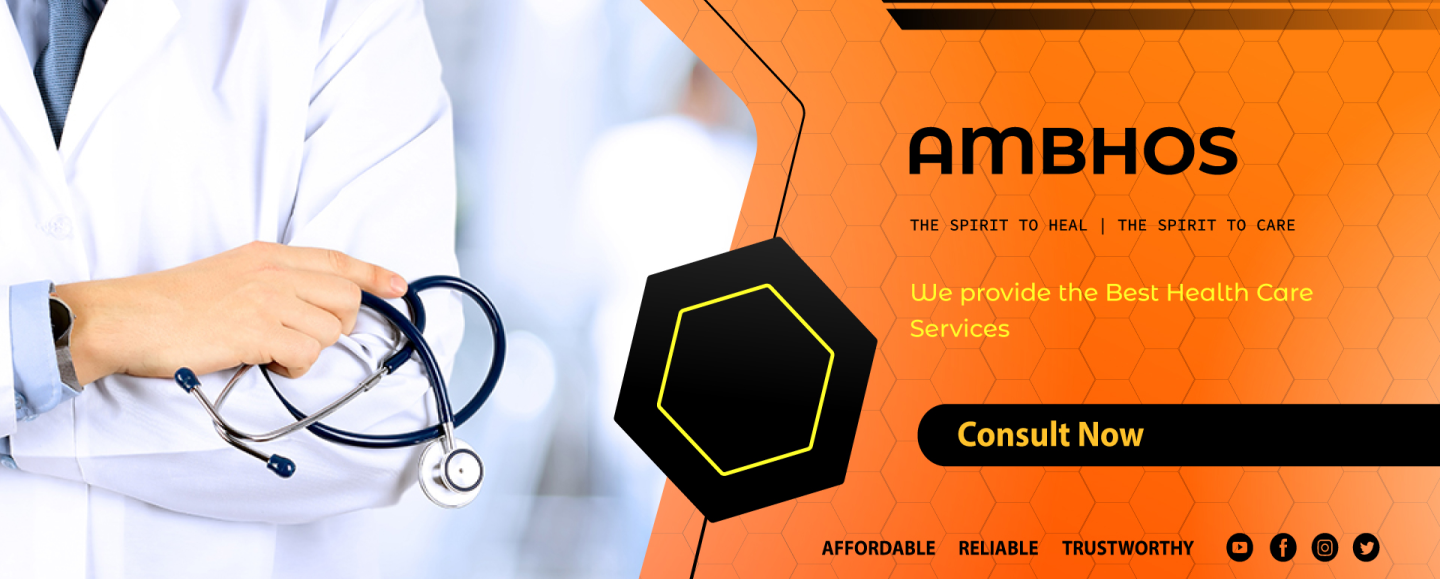
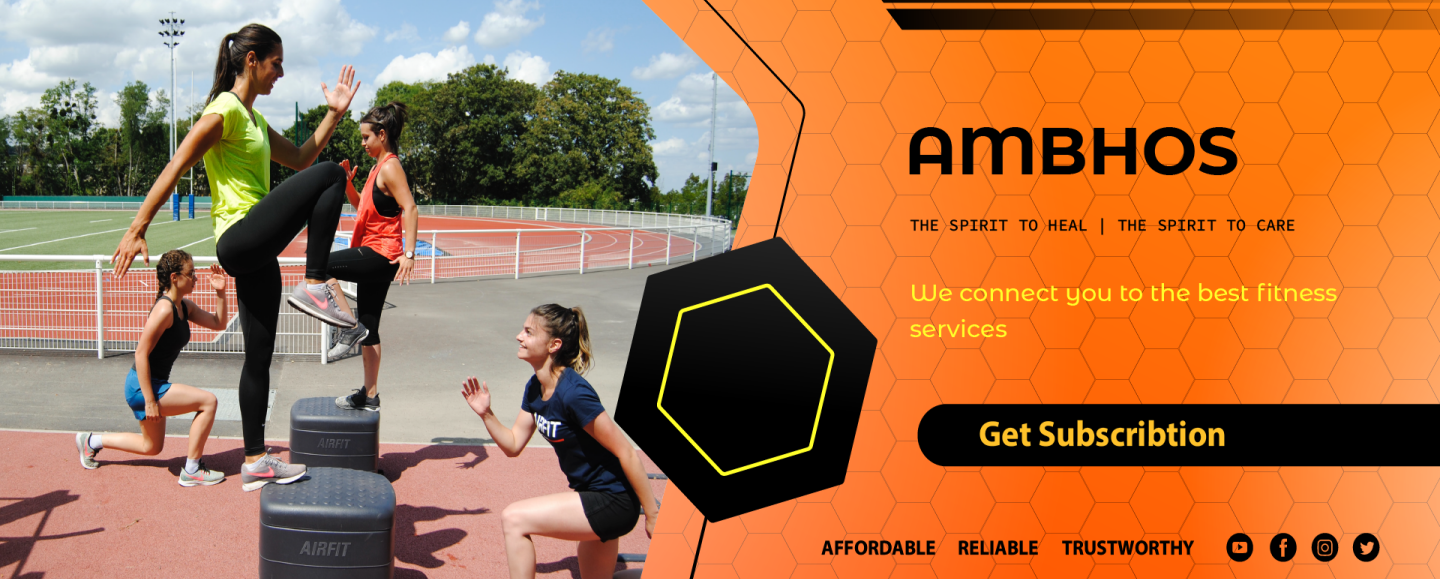
fully changed for first launch

diff --git a/src/Components/HomePage/Components/Upcoming/Upcoming.js b/src/Components/HomePage/Components/Upcoming/Upcoming.js
@@ -1,6 +1,7 @@
 import React from 'react'
 import Styles from './Upcoming.module.css';
 import Layout from './Layout/Layout';
+import {UpcomingApi} from '../../../../Common/UpcomingApi';
 
 function Upcoming() {
     return (
@@ -8,40 +9,16 @@ function Upcoming() {
             <p className={Styles.para}>Check for</p>
             <h1 className={Styles.heading}>UpComing</h1>
 
-            <Layout
-             imagetag={`/UpComing.jpg`}
-             title={`Title`}
-             para={`The oldest classical Greek and Latin writing had little or no space between words and could be written in boustrophedon (alternating directions). Over time, text direction (left to right) became standardized, and word dividers and terminal punctuation became common. The first way to divide sentences into groups was the original paragraphs, similar to an underscore at the beginning of the new group.[2] The Greek parágraphos evolved into the pilcrow (¶), which in English manuscripts in the Middle Ages can be seen inserted inline between sentences. The hedera leaf (e.g. ☙) has also been used in the same way.`}
-             description={`Topic Brief Zumba dance is a burn calories and build endurance .  malgamated our proficiency in a simple, elegant and totally integrated. amalgamated our proficiency in a simple, elegant and totally integrated... see more`}
-             />
+            {UpcomingApi.map(ele=>(
+                <Layout
+                imagetag={ele.image}
+                title={ele.event}
+                para={ele.content}
+                description={ele.title}
+                link={ele.link}
+                />
+            ))}
 
-            <Layout
-             imagetag={`/UpComing.jpg`}
-             title={`Title`}
-             para={`The oldest classical Greek and Latin writing had little or no space between words and could be written in boustrophedon (alternating directions). Over time, text direction (left to right) became standardized, and word dividers and terminal punctuation became common. The first way to divide sentences into groups was the original paragraphs, similar to an underscore at the beginning of the new group.[2] The Greek parágraphos evolved into the pilcrow (¶), which in English manuscripts in the Middle Ages can be seen inserted inline between sentences. The hedera leaf (e.g. ☙) has also been used in the same way.`}
-             description={`Topic Brief Zumba dance is a burn calories and build endurance .  malgamated our proficiency in a simple, elegant and totally integrated. amalgamated our proficiency in a simple, elegant and totally integrated... see more`}
-             />
-
-            <Layout
-             imagetag={`/UpComing.jpg`}
-             title={`Title`}
-             para={`The oldest classical Greek and Latin writing had little or no space between words and could be written in boustrophedon (alternating directions). Over time, text direction (left to right) became standardized, and word dividers and terminal punctuation became common. The first way to divide sentences into groups was the original paragraphs, similar to an underscore at the beginning of the new group.[2] The Greek parágraphos evolved into the pilcrow (¶), which in English manuscripts in the Middle Ages can be seen inserted inline between sentences. The hedera leaf (e.g. ☙) has also been used in the same way.`}
-             description={`Topic Brief Zumba dance is a burn calories and build endurance .  malgamated our proficiency in a simple, elegant and totally integrated. amalgamated our proficiency in a simple, elegant and totally integrated... see more`}
-             />
-
-            <Layout
-             imagetag={`/UpComing.jpg`}
-             title={`Title`}
-             para={`The oldest classical Greek and Latin writing had little or no space between words and could be written in boustrophedon (alternating directions). Over time, text direction (left to right) became standardized, and word dividers and terminal punctuation became common. The first way to divide sentences into groups was the original paragraphs, similar to an underscore at the beginning of the new group.[2] The Greek parágraphos evolved into the pilcrow (¶), which in English manuscripts in the Middle Ages can be seen inserted inline between sentences. The hedera leaf (e.g. ☙) has also been used in the same way.`}
-             description={`Topic Brief Zumba dance is a burn calories and build endurance .  malgamated our proficiency in a simple, elegant and totally integrated. amalgamated our proficiency in a simple, elegant and totally integrated... see more`}
-             />
-
-            <Layout
-             imagetag={`/UpComing.jpg`}
-             title={`Title`}
-             para={`The oldest classical Greek and Latin writing had little or no space between words and could be written in boustrophedon (alternating directions). Over time, text direction (left to right) became standardized, and word dividers and terminal punctuation became common. The first way to divide sentences into groups was the original paragraphs, similar to an underscore at the beginning of the new group.[2] The Greek parágraphos evolved into the pilcrow (¶), which in English manuscripts in the Middle Ages can be seen inserted inline between sentences. The hedera leaf (e.g. ☙) has also been used in the same way.`}
-             description={`Topic Brief Zumba dance is a burn calories and build endurance .  malgamated our proficiency in a simple, elegant and totally integrated. amalgamated our proficiency in a simple, elegant and totally integrated... see more`}
-             />
 
         </div>
     )

diff --git a/src/Components/ServiceProvider/ServiceProvider.js b/src/Components/ServiceProvider/ServiceProvider.js
@@ -82,9 +82,9 @@ function ServiceProvider() {
                         <div className="q">
                             <h3 className="question">SELECT YOUR CATEGORY</h3>
                             <div className="items">
-                                <div className="itemS" onClick={() => setCat("fitness")}><img src="/gymnew.png" className="image" /> <h4>FITNESS</h4></div>
-                                <div className="itemS" onClick={() => setCat("sports")}><img src="/gymnew.png" className="image" /> <h4>SPORTS</h4></div>
-                                <div className="itemS" onClick={() => setCat("care")}><img src="/gymnew.png" className="image" /> <h4>CARE</h4></div>
+                                <div className="itemS" onClick={() => setCat("fitness")}><img src="/fitnessicon.png" className="image" /> <h4>FITNESS</h4></div>
+                                <div className="itemS" onClick={() => setCat("sports")}><img src="/sportsicon.png" className="image" /> <h4>SPORTS</h4></div>
+                                <div className="itemS" onClick={() => setCat("care")}><img src="/healthicon.png" className="image" /> <h4>CARE</h4></div>
                             </div>
                         </div>
                     ),
@@ -95,8 +95,8 @@ function ServiceProvider() {
                                 <div className="q">
                                     <h3 className="question">SELECT YOUR CATEGORY</h3>
                                     <div className="items">
-                                        <div className="itemS" onClick={() => setCatTwo("academy")}><img src="/gymnew.png" className="image" /> <h4>ACADEMY</h4></div>
-                                        <div className="itemS" onClick={() => setCatTwo("trainer")}><img src="/gymnew.png" className="image" /> <h4>PERSONAL TRAINER</h4></div>
+                                        <div className="itemS" onClick={() => setCatTwo("academy")}><img src="/academyicon.png" className="image" /> <h4>ACADEMY</h4></div>
+                                        <div className="itemS" onClick={() => setCatTwo("trainer")}><img src="/trainericon.png" className="image" /> <h4>PERSONAL TRAINER</h4></div>
                                     </div>
                                 </div>
                             ),
@@ -104,9 +104,9 @@ function ServiceProvider() {
                                 <div className="q">
                                     <h3 className="question">SELECT YOUR CATEGORY</h3>
                                     <div className="items">
-                                        <div className="itemS" onClick={() => setCatTwo("academy")}><img src="/gymnew.png" className="image" /> <h4>ACADEMY</h4></div>
-                                        <div className="itemS" onClick={() => setCatTwo("trainer")}><img src="/gymnew.png" className="image" /> <h4>TRAINER</h4></div>
-                                        <div className="itemS" onClick={() => setCatTwo("mentor")}><img src="/gymnew.png" className="image" /> <h4>MENTOR</h4></div>
+                                        <div className="itemS" onClick={() => setCatTwo("academy")}><img src="/academyicon.png" className="image" /> <h4>ACADEMY</h4></div>
+                                        <div className="itemS" onClick={() => setCatTwo("trainer")}><img src="/trainericon.png" className="image" /> <h4>TRAINER</h4></div>
+                                        <div className="itemS" onClick={() => setCatTwo("mentor")}><img src="/mentoricon.png" className="image" /> <h4>MENTOR</h4></div>
                                     </div>
                                 </div>
                             ),
@@ -114,8 +114,8 @@ function ServiceProvider() {
                                 <div className="q">
                                     <h3 className="question">SELECT YOUR CATEGORY</h3>
                                     <div className="items">
-                                        <div className="itemS" onClick={() => setCatTwo("doctor")}><img src="/gymnew.png" className="image" /> <h4>DOCTOR</h4></div>
-                                        <div className="itemS" onClick={() => setCatTwo("hospital")}><img src="/gymnew.png" className="image" /> <h4>HOSPITAL</h4></div>
+                                        <div className="itemS" onClick={() => setCatTwo("doctor")}><img src="/healthicon.png" className="image" /> <h4>DOCTOR</h4></div>
+                                        <div className="itemS" onClick={() => setCatTwo("hospital")}><img src="/healthicon.png" className="image" /> <h4>HOSPITAL</h4></div>
                                     </div>
                                 </div>
                             )

diff --git a/src/Components/HomePage/Components/Testimonials/Testimonials.js b/src/Components/HomePage/Components/Testimonials/Testimonials.js
@@ -4,6 +4,7 @@ import Design from './Design/Design';
 
 import Carousel from "react-multi-carousel";
 import "react-multi-carousel/lib/styles.css";
+import {TestimonialApi} from '../../../../Common/TestimonialApi.js';
 
 const responsive = {
     superLargeDesktop: {
@@ -34,37 +35,14 @@ function Testimonials() {
             <div className={Styles.container}>
 
             <Carousel responsive={responsive}>
-            <div className={Styles.actualdiv}>
-                <Design imagetag={`/person.jpg`} paragraph={`We at Sprinteriors wanted our website to be futuristic, easy to understand, user 
-                friendly and service oriented giving our customers all the handy requisites in designing their dream project online just the 
-                way they visualized it. Thinkbar has beautifully malgamated our proficiency in a simple, elegant and totally integrated. 
-                amalgamated our proficiency in a simple, elegant and totally integrated.`}
-                   name={`Ayush Gour`} designation={`Co-founder of Ambhos.pvt.ltd`} />
-                </div>
+            
+                {TestimonialApi.map(ele=>(
+                  <div className={Styles.actualdiv}>
+                  <Design imagetag={ele.image} paragraph={ele.description}
+                     name={ele.name} designation={ele.designation} />
+                  </div>
+                ))}
 
-                <div className={Styles.actualdiv}>
-                <Design imagetag={`/person.jpg`} paragraph={`We at Sprinteriors wanted our website to be futuristic, easy to understand, user 
-                friendly and service oriented giving our customers all the handy requisites in designing their dream project online just the 
-                way they visualized it. Thinkbar has beautifully malgamated our proficiency in a simple, elegant and totally integrated. 
-                amalgamated our proficiency in a simple, elegant and totally integrated.`}
-                   name={`Ayush Gour`} designation={`Co-founder of Ambhos.pvt.ltd`} />
-                </div>
-
-                <div className={Styles.actualdiv}>
-                <Design imagetag={`/person.jpg`} paragraph={`We at Sprinteriors wanted our website to be futuristic, easy to understand, user 
-                friendly and service oriented giving our customers all the handy requisites in designing their dream project online just the 
-                way they visualized it. Thinkbar has beautifully malgamated our proficiency in a simple, elegant and totally integrated. 
-                amalgamated our proficiency in a simple, elegant and totally integrated.`}
-                   name={`Ayush Gour`} designation={`Co-founder of Ambhos.pvt.ltd`} />
-                </div>
-
-                <div className={Styles.actualdiv}>
-                <Design imagetag={`/person.jpg`} paragraph={`We at Sprinteriors wanted our website to be futuristic, easy to understand, user 
-                friendly and service oriented giving our customers all the handy requisites in designing their dream project online just the 
-                way they visualized it. Thinkbar has beautifully malgamated our proficiency in a simple, elegant and totally integrated. 
-                amalgamated our proficiency in a simple, elegant and totally integrated.`}
-                   name={`Ayush Gour`} designation={`Co-founder of Ambhos.pvt.ltd`} />
-                </div>
             </Carousel>
             </div>
             

diff --git a/src/Components/HomePage/Components/Services/Services.js b/src/Components/HomePage/Components/Services/Services.js
@@ -16,24 +16,15 @@ function Services() {
             </div>
 
             <div className={Styles.design}>
-                <DesignServices Imagetag="/form1.jpg" title={`GYM`} OnClickLink={`./gym`} />
-                <DesignServices Imagetag="/form1.jpg" title={`GYM`} OnClickLink={`./gym`} />
-                <DesignServices Imagetag="/form1.jpg" title={`GYM`} OnClickLink={`./gym`} />
-                <DesignServices Imagetag="/form1.jpg" title={`GYM`} OnClickLink={`./gym`} />
-                <DesignServices Imagetag="/form1.jpg" title={`GYM`} OnClickLink={`./gym`} />
-                <DesignServices Imagetag="/form1.jpg" title={`GYM`} OnClickLink={`./gym`} />
-                <DesignServices Imagetag="/form1.jpg" title={`GYM`} OnClickLink={`./gym`} />
-                <DesignServices Imagetag="/form1.jpg" title={`GYM`} OnClickLink={`./gym`} />
-                <DesignServices Imagetag="/form1.jpg" title={`GYM`} OnClickLink={`./gym`} />
-                <DesignServices Imagetag="/form1.jpg" title={`GYM`} OnClickLink={`./gym`} />
-                <DesignServices Imagetag="/form1.jpg" title={`GYM`} OnClickLink={`./gym`} />
-                <DesignServices Imagetag="/form1.jpg" title={`GYM`} OnClickLink={`./gym`} />
-                <DesignServices Imagetag="/form1.jpg" title={`GYM`} OnClickLink={`./gym`} />
-                <DesignServices Imagetag="/form1.jpg" title={`GYM`} OnClickLink={`./gym`} />
-                <DesignServices Imagetag="/form1.jpg" title={`GYM`} OnClickLink={`./gym`} />
-                <DesignServices Imagetag="/form1.jpg" title={`GYM`} OnClickLink={`./gym`} />
-                <DesignServices Imagetag="/form1.jpg" title={`GYM`} OnClickLink={`./gym`} />
-                <DesignServices Imagetag="/form1.jpg" title={`GYM`} OnClickLink={`./gym`} />
+                <DesignServices Imagetag="/images/gymlogo.jpg" title={`GYM`} OnClickLink={``} />
+                <DesignServices Imagetag="/images/yogalogo.jpg" title={`Yoga & Meditation`} OnClickLink={``} />
+                <DesignServices Imagetag="/images/trekkinglogo.jpg" title={`Trekking`} OnClickLink={``} />
+                <DesignServices Imagetag="/images/dancelogo.jpg" title={`Dance`} OnClickLink={``} />
+                <DesignServices Imagetag="/images/commandologo.png" title={`Commando Tranning`} OnClickLink={``} />
+                <DesignServices Imagetag="/images/swimminglogo.png" title={`Swimming`} OnClickLink={``} />
+                <DesignServices Imagetag="/images/martialartslogo.jpg" title={`Martial Arts`} OnClickLink={``} />
+                <DesignServices Imagetag="/images/olympicslogo.png" title={`Olympic Sports`} OnClickLink={`/sportsacademy`} />
+                
             </div>
             <div className={Styles.arrow}>
                       <KeyboardArrowLeftIcon />

diff --git a/src/Components/HomePage/Components/Popup/Popup.js b/src/Components/HomePage/Components/Popup/Popup.js
@@ -44,23 +44,23 @@ function Popup({category}) {
                 {
                     "fitness" :(
                         <>
-                        <div className="itemS" onClick={gotoFitnessAcademy}><img src="/gymnew.png" className="image"/> <h4>ACADEMY</h4></div>
-                        <div className="itemS" onClick={gotoFitnessTrainer}><img src="/gymnew.png" className="image" /> <h4>PERSONAL TRAINER</h4></div>
+                        <div className="itemS" onClick={gotoFitnessAcademy}><img src="/academyicon.png" className="image"/> <h4>ACADEMY</h4></div>
+                        <div className="itemS" onClick={gotoFitnessTrainer}><img src="/trainericon.png" className="image" /> <h4>PERSONAL TRAINER</h4></div>
                         </>
                      ),
 
                      "care" :(
                         <>
-                        <div className="itemS" onclick={gotoConsultDoctor}><img src="/gymnew.png" className="image" /> <h4>CONSULT DOCTORS</h4></div>
-                        <div className="itemS" onclick={gotoAppointmentBooking}><img src="/gymnew.png" className="image" /> <h4>BOOK APPOINTMENT WITH HOSPITAL</h4></div>
+                        <div className="itemS" onclick={gotoConsultDoctor}><img src="/healthicon.png" className="image" /> <h4>CONSULT DOCTORS</h4></div>
+                        <div className="itemS" onclick={gotoAppointmentBooking}><img src="/healthicon.png" className="image" /> <h4>BOOK APPOINTMENT WITH HOSPITAL</h4></div>
                         </>
                      ),
 
                      "sports" :(
                         <>
-                        <div className="itemS" onClick={gotoSportsAcademy}><img src="/gymnew.png" className="image" /> <h4>ACADEMY</h4></div>
-                        <div className="itemS" onClick={gotoCoaches}><img src="/gymnew.png" className="image" /> <h4>PERSONAL TRAINER</h4></div>
-                        <div className="itemS" onClick={gotoMentorshipProgram}><img src="/gymnew.png" className="image" /> <h4>MENTORSHIP PROGRAM</h4></div>
+                        <div className="itemS" onClick={gotoSportsAcademy}><img src="/academyicon.png" className="image" /> <h4>ACADEMY</h4></div>
+                        <div className="itemS" onClick={gotoCoaches}><img src="/trainericon.png" className="image" /> <h4>PERSONAL TRAINER</h4></div>
+                        <div className="itemS" onClick={gotoMentorshipProgram}><img src="/mentoricon.png" className="image" /> <h4>MENTORSHIP PROGRAM</h4></div>
                         </>
                      )
                 }[category]

diff --git a/src/Components/HomePage/Components/Care/LayoutCare.js b/src/Components/HomePage/Components/Care/LayoutCare.js
@@ -31,10 +31,12 @@ function LayoutCare() {
         <div className="main">
             <a name="care"></a>
             <Carousel responsive={responsive}>
-                <ItemCare imglink="/care.jpg" title={`Book for Vaccination`} linkTag={`click here to book you slot`}/>
-                <ItemCare imglink="/care.jpg" title={`Book for Vaccination`} linkTag={`click here to book you slot`}/>
-                <ItemCare imglink="/care.jpg" title={`Book for Vaccination`} linkTag={`click here to book you slot`}/>
-                <ItemCare imglink="/care.jpg" title={`Book for Vaccination`} linkTag={`click here to book you slot`}/>  
+                <ItemCare imglink="/care.jpg" title={`Book for Vaccination`} linkTag={`click here to book you slot`} link={`https://selfregistration.cowin.gov.in/`}/>
+                <ItemCare imglink="/onboarddoctor.jpg" title={`Join our team as a doctor`} linkTag={`click here to Join`} link={``}/>
+                <ItemCare imglink="/onboardsports.jpg" title={`Join as a sports academy`} linkTag={`click here to Join`} link={`https://bit.ly/fitness_ambhos`}/>
+                <ItemCare imglink="/onboarddfitness.jpg" title={`Join as fitness academy`} linkTag={`click here to Join`} link={`https://bit.ly/fitness_ambhos`}/>  
+                <ItemCare imglink="/onboardsports.jpg" title={`Join as a sports personal trainer`} linkTag={`click here to Join`} link={`https://bit.ly/Trainer_ambhos`}/>
+                <ItemCare imglink="/onboarddfitness.jpg" title={`Join as fitness personal trainer`} linkTag={`click here to Join`} link={`https://bit.ly/Trainer_ambhos`}/> 
             </Carousel>
                 
                 

diff --git a/src/Common/TestimonialApi.js b/src/Common/TestimonialApi.js
@@ -1,0 +1,14 @@
+ export const TestimonialApi = 
+[
+    {description: "It was such a great experience getting fitness guidance under Ambhos. They provide customise health, fitness and Sports services in best possible time and are always in touch. My trekking experience along with my daughters at Ambhos family had been memorable. Their Karate and yoga classes are fantastic. I would suggest everyone who are looking all fitness services under one roof should visit Ambhos once.",
+    name: "Jasmeet Arora",
+     image:"/t1.jpg", designation:"Entrepreneur"},
+
+     {description:"It has always been a great learning experience with AMBHOS. Maldevta trekking trip has a special place in my life since then yoga and meditation has become part of my daily schedule and that has helped me alot in maintaining my physical and mental health.I am very much thankful to AMBHOS and Wish them all the best for their future endeavors. Keep changing the people's lives for good. Cheer's!",
+      name:"Pawan Chaturvedi",
+      image:"/t2.jpg", designation:"Entrepreneur"},
+
+      {description:"At AMBHOS, I appreciate the dedication, team work and the unparalleled passion towards the project. I admire their attention to every detail and amazing service at everything they offer. Team AMBHOS is one of its kind in creative approach towards providing solutions on a single platform.",
+       name:"Reshma Jain",
+       image:"/t3.jpg", designation:"Entrepreneur"}
+];

diff --git a/src/Components/HomePage/Components/Upcoming/Layout/Layout.js b/src/Components/HomePage/Components/Upcoming/Layout/Layout.js
@@ -2,18 +2,21 @@ import React from 'react'
 import Styles from './Layout.module.css';
 import CalendarTodayIcon from '@material-ui/icons/CalendarToday';
 
-function Layout({imagetag, title, description}) {
+function Layout({imagetag, title, description, Date, para, link}) {
+
+    
 
     return (
         <div className={Styles.layout}>
-            <img src={imagetag} alt="" />
+            <img src={imagetag} className={Styles.imagesm} alt="" />
             <div className={Styles.right}>
                 <div className={Styles.titleIcon}>
                     <h1 className={Styles.title}>{title}</h1>
-                    <CalendarTodayIcon />
+                    <p>{Date}</p>
                 </div>
                 <div className={Styles.description}>
-                    <p className={Styles.para}>{description} &nbsp;&nbsp;<span className={Styles.more}>Show More</span></p>
+                    <p className={Styles.para}>{description}</p>
+                    <p className={Styles.para}>{para.substring(0,300)}&nbsp;&nbsp;<a href={link} className={Styles.link}><span className={Styles.more}>Show More</span></a></p>
                 </div>
             </div>
         </div>

diff --git a/src/Common/UpcomingApi.js b/src/Common/UpcomingApi.js
@@ -1,0 +1,9 @@
+export const UpcomingApi=
+[
+    {event:"Commando Training",
+     date:"8th – 12 th December",
+     content: "COMMANDO COURSE is a Special Operation training course that combines small unit Special Operations skills necessary to complete high risk, can't fail missions into a Four and Half day training course. The course is held by the Commando Training School and it's modelled after Special Operations Warfare training programs at the team level. It is designed to provide proficiency tactical employment of Special Operations Operators. During this course students, will be instructed in small unit movement, land navigation principles, surveillance, area defense, route planning, demolitions overview, information gathering, infiltration/extraction, introduction to nonelectric and electric firing systems theory, overview of patrolling tactics, Survival Evasion Reaction Escape (SERE) techniques.",
+     title:"Get trained by the best in the field - Ex Marcos & 26/11 Hero Mr. Praveen Teotia at December Special camp in Lonavala.",
+     image:"/u1.jpg", 
+     link: "https://docs.google.com/forms/d/1FIw2TlO64t4-WJh5-Rp9-WJiqPnVK3SSw6kPKqKycbU/edit"}
+]

diff --git a/src/Components/HomePage/Components/Upcoming/Layout/Layout.module.css b/src/Components/HomePage/Components/Upcoming/Layout/Layout.module.css
@@ -6,6 +6,18 @@
    margin-bottom:5px;
 }
 
+.imagesm{
+   width: 150px !important;
+   height: 150px !important;
+   object-fit: cover !important;
+   border: 1px solid #1b1b1b !important;
+   border-radius: 10px !important;
+}
+
+.link{
+   text-decoration: none !important;
+}
+
 .para{
    font-family: Montserrat Alternates;
    font-weight: 400;
@@ -43,11 +55,11 @@
 @media(max-width:600px){
     .layout{
         display: block;
-        width: 100%;
-        margin: 10px 0px;
+        width: calc(100% - 40px) !important;
+        margin: 10px 0px !important;
     }
 
     .right{
-        width: 100%;
+      width: 100% !important;
     }
 }

diff --git a/src/Components/HomePage/Components/Care/item-care/ItemCare.js b/src/Components/HomePage/Components/Care/item-care/ItemCare.js
@@ -9,7 +9,7 @@ function ItemCare({imglink, title, linkTag, link}) {
                     <img src={imglink} className={Styles.image}/>
                     <div className={Styles.addspace}>
                     <h2 className={Styles.title}>{title}</h2>
-                    <h3 className={Styles.link}><a href="" className={Styles.anchortag}>{linkTag}<ChevronRightIcon className={Styles.icon} /></a></h3>
+                    <h3 className={Styles.link}><a href={link} className={Styles.anchortag}>{linkTag}<ChevronRightIcon className={Styles.icon} /></a></h3>
                     </div>
              </div>            
         </div>

diff --git a/src/Components/HomePage/Components/Testimonials/Design/Design.js b/src/Components/HomePage/Components/Testimonials/Design/Design.js
@@ -4,7 +4,7 @@ function Design({imagetag, paragraph, name, designation}) {
     return (
         <div className={Styles.design}>
             <div className={Styles.left}>
-                <img src={imagetag} alt="" />
+                <img src={imagetag} className={Styles.imgsmall} alt="" />
                 <img src="/rectangle.png" alt="" className={Styles.rectangle} />
             </div>
             <div className={Styles.right}>
